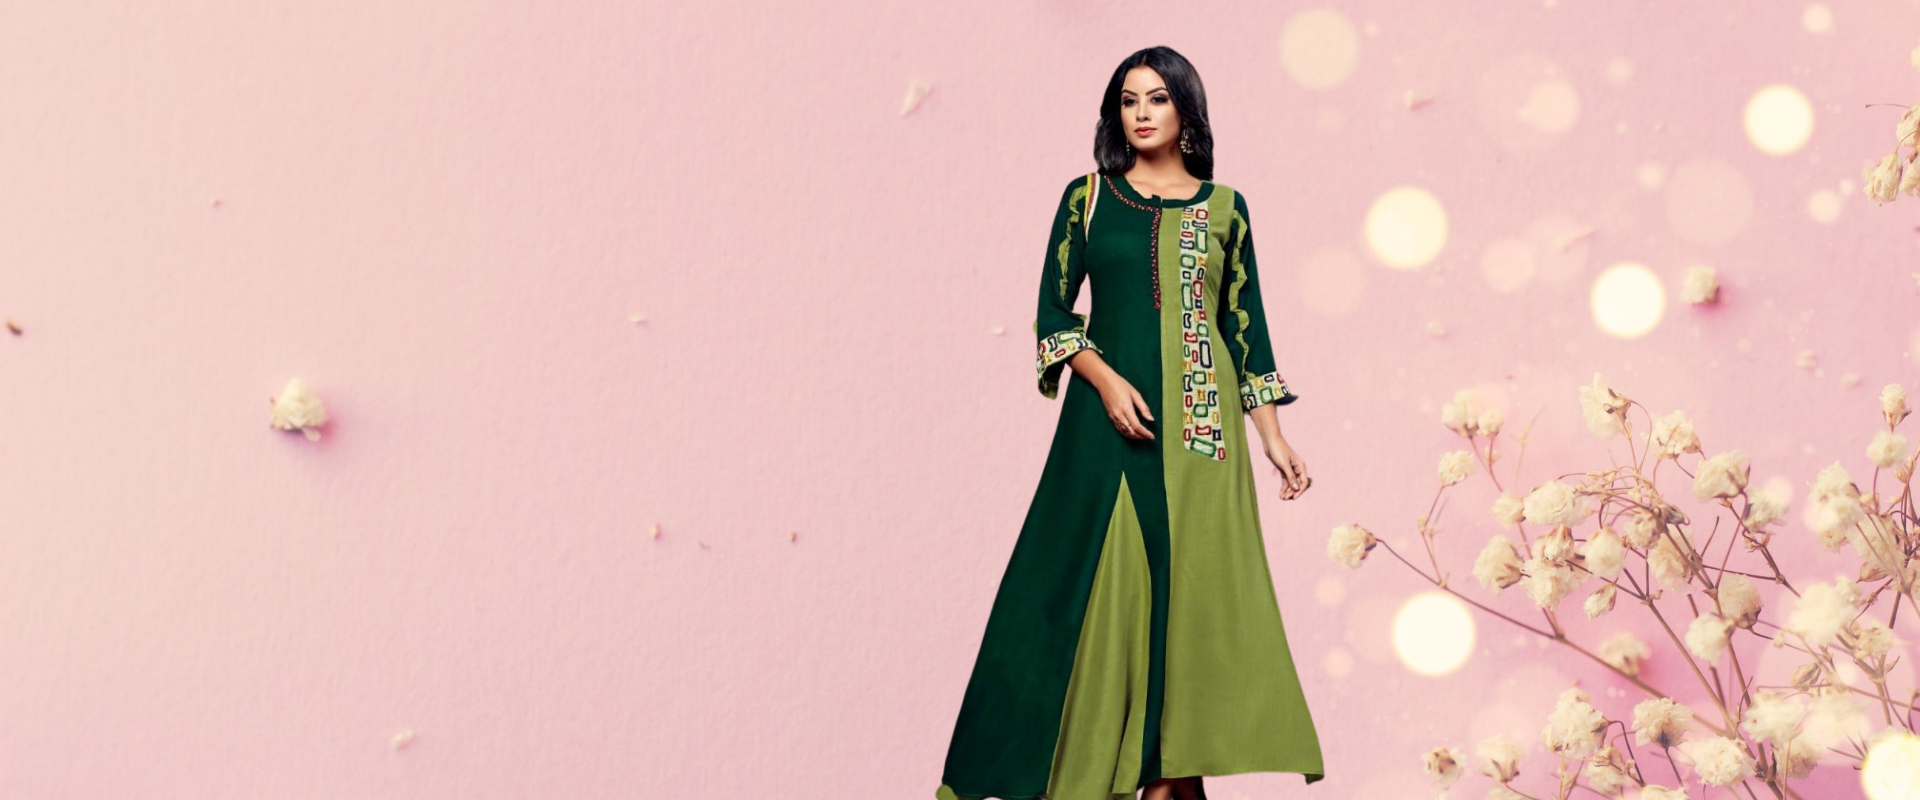
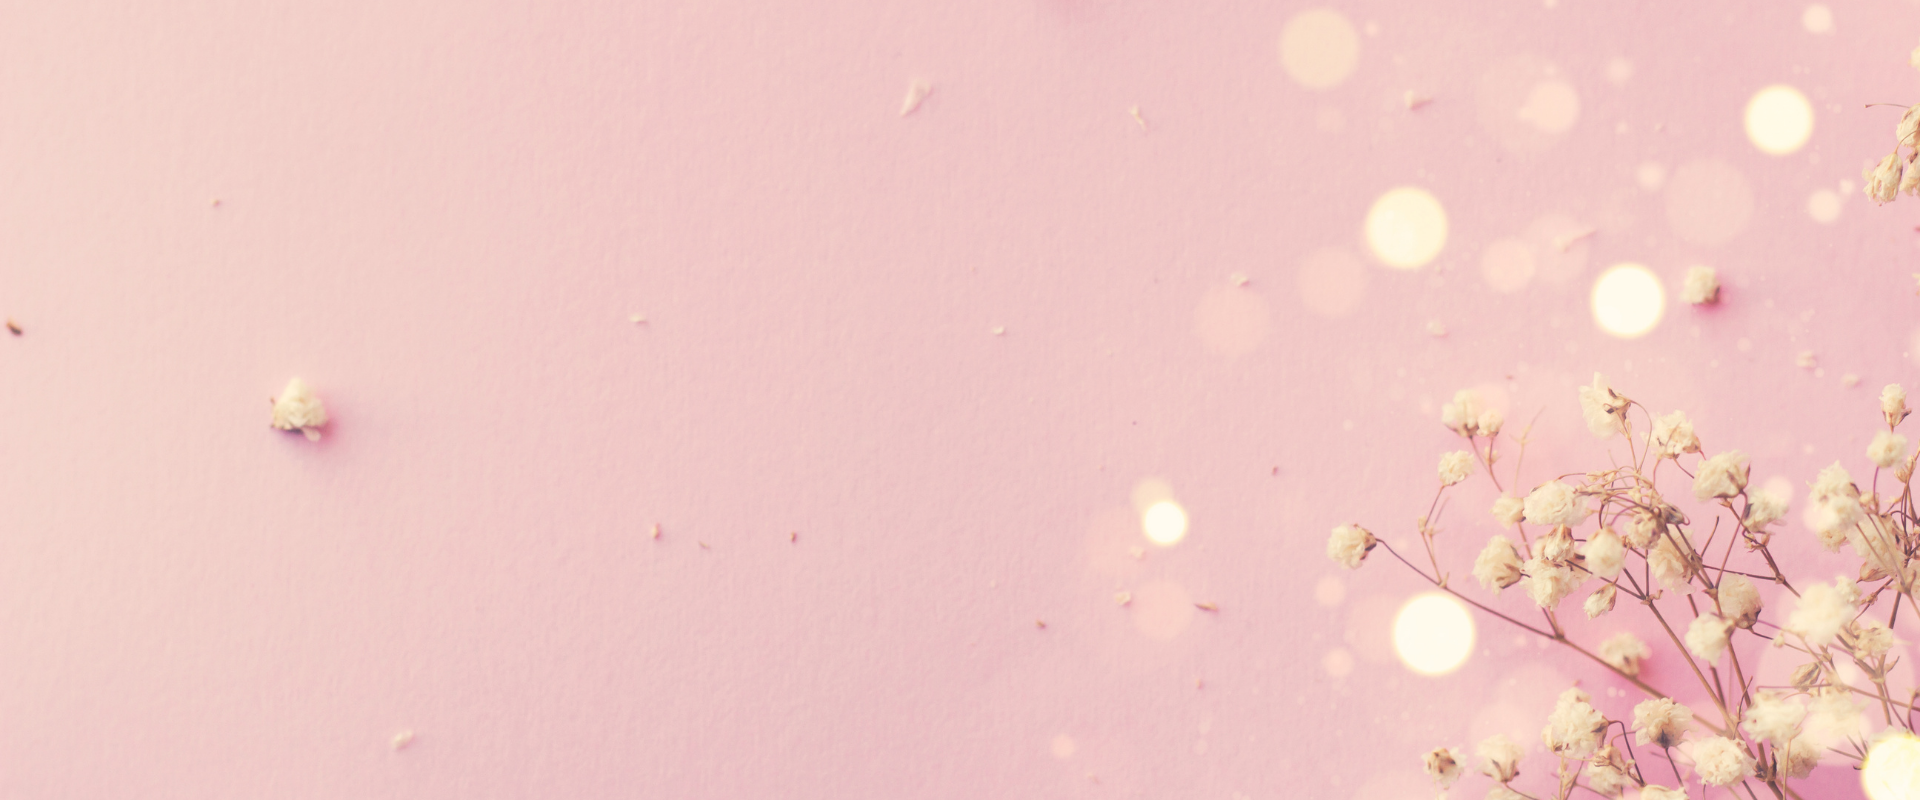
Muskan Boutique

Changed region(s): [[0.4688, 0.0625, 0.6875, 1.0]]

diff --git a/templates/index.html b/templates/index.html
@@ -14,29 +14,29 @@ Muskan Boutique
                 <div class="row">
                     <div class="col-xl-5 col-lg-7 col-md-8">
                         <div class="hero__text">
-                            <h6>Summer Collection</h6>
-                            <h2>Fall - Winter Collections 2030</h2>
+                            <!-- <h6>Summer Collection</h6> -->
+                            <h2>New Popup Collection 2022</h2>
                             <p>A specialist label creating luxury essentials. Ethically crafted with an unwavering
                                 commitment to exceptional quality.</p>
                             <a href="#product-spad" class="primary-btn">Shop now <span class="arrow_right"></span></a>
                             <div class="hero__social">
-                                <a href="#"><i class="fa fa-facebook"></i></a>
-                                <a href="#"><i class="fa fa-twitter"></i></a>
-                                <a href="#"><i class="fa fa-pinterest"></i></a>
-                                <a href="#"><i class="fa fa-instagram"></i></a>
+                                <a href="https://www.facebook.com/www.muskanboutique/" target="_blank"><i class="fa fa-facebook"></i></a>
+                                <a href="#" target="_blank"><i class="fa fa-twitter"></i></a>
+                                <a href="https://in.pinterest.com/muskanboutique86" target="_blank"><i class="fa fa-pinterest"></i></a>
+                                <a href="https://www.instagram.com/boutique.muskan/" target="_blank"><i class="fa fa-instagram"></i></a>
                             </div>
                         </div>
                     </div>
                 </div>
             </div>
         </div>
-        <div class="hero__items set-bg" data-setbg="{% static 'mbapp/img/hero/hero-2.jpg' %}">
+        <div class="hero__items set-bg" data-setbg="{% static 'mbapp/img/hero/hero-2.png' %}">
             <div class="container">
                 <div class="row">
                     <div class="col-xl-5 col-lg-7 col-md-8">
                         <div class="hero__text">
-                            <h6>Summer Collection</h6>
-                            <h2>Fall - Winter Collections 2030</h2>
+                            <!-- <h6>Summer Collection</h6> -->
+                            <h2>New Popup Collection 2022</h2>
                             <p>A specialist label creating luxury essentials. Ethically crafted with an unwavering
                                 commitment to exceptional quality.</p>
                             <a href="#product-spad" class="primary-btn">Shop now <span class="arrow_right"></span></a>
@@ -56,7 +56,8 @@ Muskan Boutique
 <!-- Hero Section End -->
 
 <!-- Banner Section Begin -->
-<section class="banner spad">
+
+<!-- <section class="banner spad">
     <div class="container">
         <div class="row">
             <div class="col-lg-7 offset-lg-4">
@@ -94,7 +95,9 @@ Muskan Boutique
             </div>
         </div>
     </div>
-</section>
+</section> -->
+
+
 <!-- Banner Section End -->
 
 <!-- Product Section Begin -->

diff --git a/templates/base.html b/templates/base.html
@@ -1,12 +1,12 @@
 {% load static %}
 <!DOCTYPE html>
 <html lang="zxx">
-    
+
 <head>
     <meta charset="UTF-8">
     {% block meta_stuff %}
     {% endblock meta_stuff %}
-  
+
 
     <meta name="viewport" content="width=device-width, initial-scale=1.0">
     <meta http-equiv="X-UA-Compatible" content="ie=edge">
@@ -29,6 +29,9 @@
     <link rel="stylesheet" href="{% static 'mbapp/css/owl.carousel.min.css' %}" type="text/css">
     <link rel="stylesheet" href="{% static 'mbapp/css/slicknav.min.css' %}" type="text/css">
     <link rel="stylesheet" href="{% static 'mbapp/css/style.css' %}" type="text/css">
+    <link rel="preconnect" href="https://fonts.googleapis.com">
+    <link rel="preconnect" href="https://fonts.gstatic.com" crossorigin>
+    <link href="https://fonts.googleapis.com/css2?family=Abril+Fatface&display=swap" rel="stylesheet">
 
 </head>
 
@@ -94,34 +97,19 @@
 
 
 
-        <div class="container">
+        <div class="container h-100 align-items-center justify-content-center">
             <div class="row">
                 <div class="col-lg-6 col-md-6">
                     <div class="header__logo">
-                        <a href="{% url 'index' %}"><img src="{% static 'mbapp/img/logo.png' %}" alt=""></a>
+                        <a href="{% url 'index' %}">
+
+                            <!-- <img src="{% static 'mbapp/img/logo.png' %}" alt=""> -->
+                            MUSKAN BOUTIQUE
+
+                        </a>
                     </div>
                 </div>
 
-                <!-- Menu -->
-                <!-- <div class="col-lg-6 col-md-6">
-                    <nav class="header__menu mobile-menu">
-                        <ul>
-                            <li class="active"><a href="./index.html">Home</a></li>
-                            <li><a href="./shop.html">Shop</a></li>
-                            <li><a href="#">Pages</a>
-                                <ul class="dropdown">
-                                    <li><a href="./about.html">About Us</a></li>
-                                    <li><a href="./shop-details.html">Shop Details</a></li>
-                                    <li><a href="./shopping-cart.html">Shopping Cart</a></li>
-                                    <li><a href="./checkout.html">Check Out</a></li>
-                                    <li><a href="./blog-details.html">Blog Details</a></li>
-                                </ul>
-                            </li>
-                            <li><a href="./blog.html">Blog</a></li>
-                            <li><a href="./contact.html">Contacts</a></li>
-                        </ul>
-                    </nav>
-                </div> -->
 
                 {% block search %}
                 {% endblock search %}

diff --git a/mbapp/static/mbapp/css/style.css b/mbapp/static/mbapp/css/style.css
@@ -411,6 +411,10 @@ ol {
 
 .header__logo a {
   display: inline-block;
+  font-family: 'RoxboroughCF-Bold';
+  font-size: 1.24rem;
+  font-weight: bold;
+  color: #6d343c;
 }
 
 .header__menu {
@@ -606,7 +610,7 @@ ol {
 }
 
 .hero__text h2 {
-  color: #111111;
+  color: #88404B;
   font-size: 48px;
   font-weight: 700;
   line-height: 58px;
@@ -3571,4 +3575,9 @@ ol {
   .categories__text:before {
     height: 250px;
   }
+}
+
+
+#product-spad{
+  margin-top: 40px;
 }
